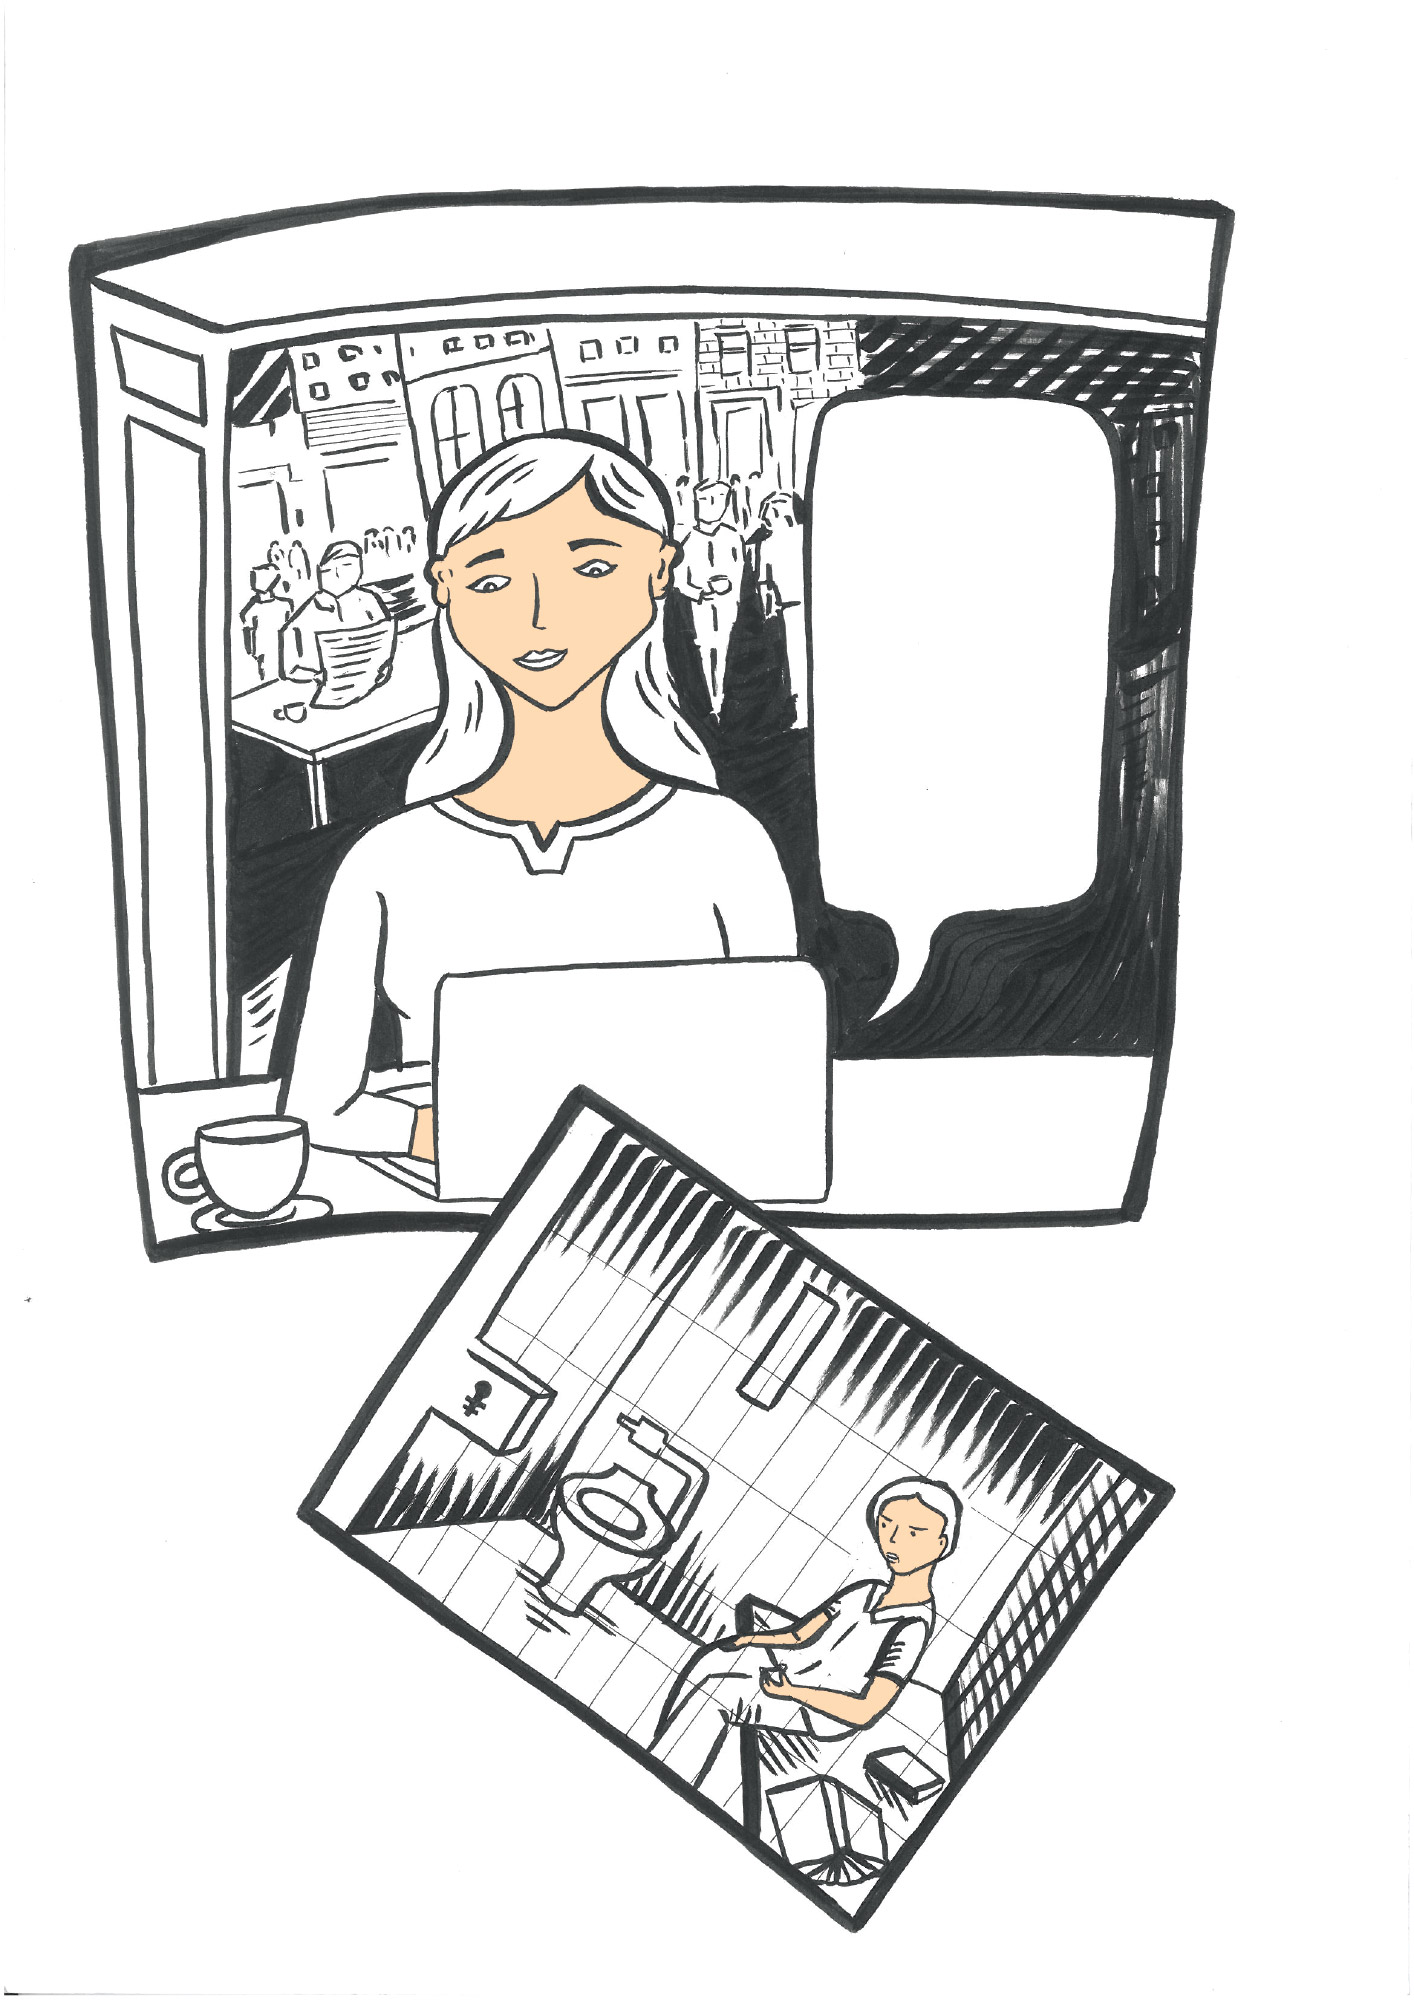
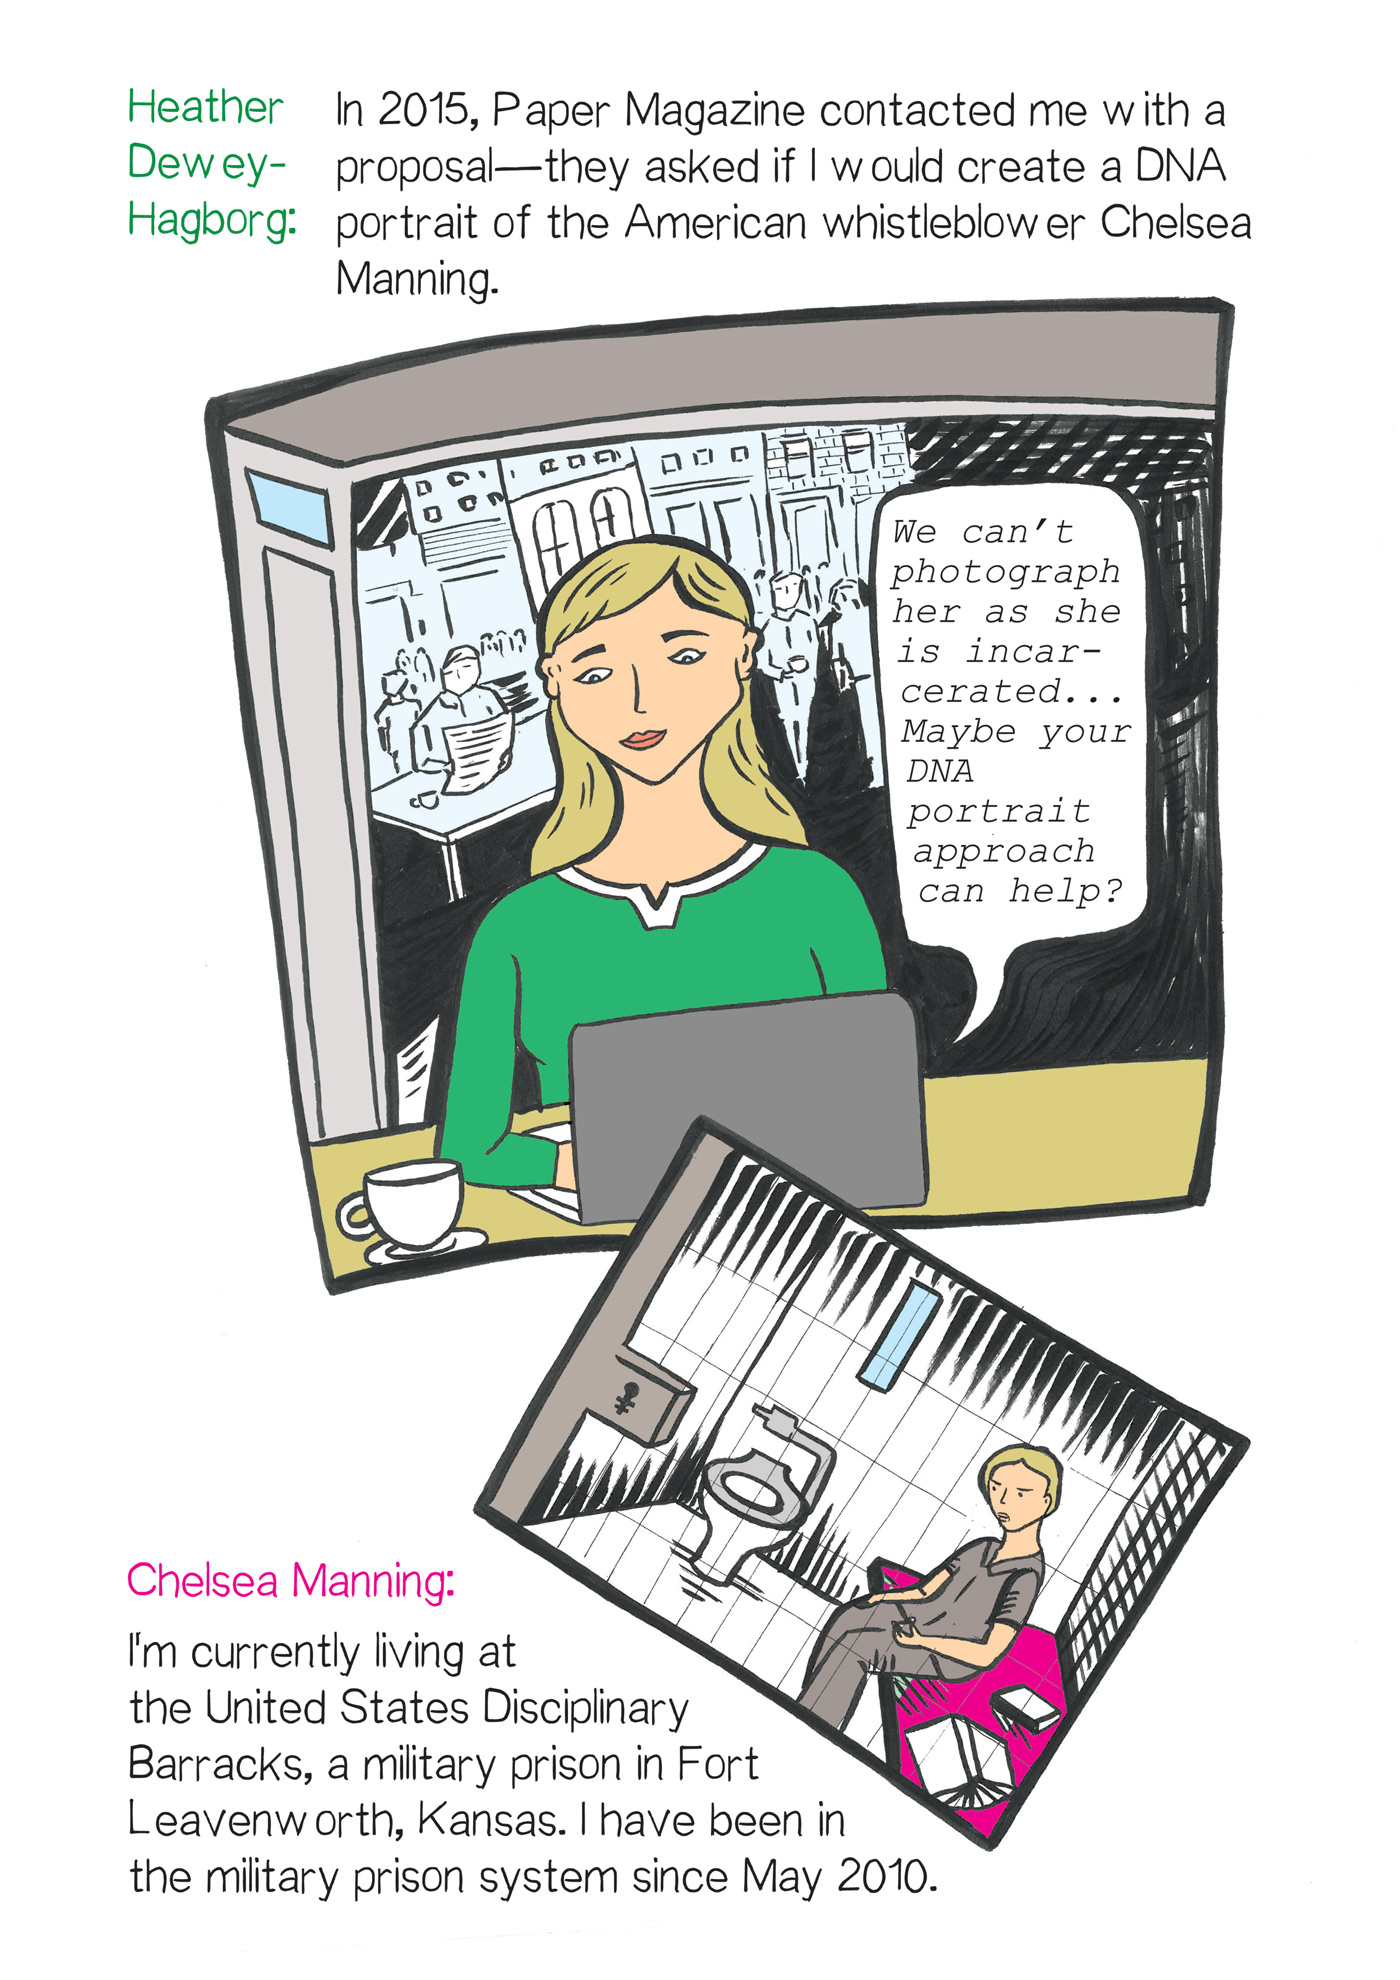
Adds rendered story pages

diff --git a/index.html b/index.html
@@ -29,15 +29,17 @@ layout: default
   </header>
 
   <p class="story">
-    <img src="/assets/images/story/1.jpg" alt="Page 1" />
-    <!--<img src="/assets/images/test-image1.jpg" alt="Suppressed Images page 1" />
-    <img src="/assets/images/test-image2.jpg" alt="Suppressed Images page 2" />
-    <img src="/assets/images/test-image1.jpg" alt="Suppressed Images page 3" />
-    <img src="/assets/images/test-image2.jpg" alt="Suppressed Images page 4" />
-    <img src="/assets/images/test-image1.jpg" alt="Suppressed Images page 5" />
-    <img src="/assets/images/test-image2.jpg" alt="Suppressed Images page 6" />
-    <img src="/assets/images/test-image1.jpg" alt="Suppressed Images page 7" />
-    <img src="/assets/images/test-image2.jpg" alt="Suppressed Images page 8" />-->
+    <img src="/assets/images/story/1.jpg" alt="Suppressed Images page 1" />
+    <img src="/assets/images/story/2.jpg" alt="Suppressed Images page 2" />
+    <img src="/assets/images/story/3.jpg" alt="Suppressed Images page 3" />
+    <img src="/assets/images/story/4.jpg" alt="Suppressed Images page 4" />
+    <img src="/assets/images/story/5.jpg" alt="Suppressed Images page 5" />
+    <img src="/assets/images/story/6.jpg" alt="Suppressed Images page 6" />
+    <img src="/assets/images/story/7.jpg" alt="Suppressed Images page 7" />
+    <img src="/assets/images/story/8.jpg" alt="Suppressed Images page 8" />
+    <img src="/assets/images/story/9.jpg" alt="Suppressed Images page 9" />
+    <img src="/assets/images/story/10.jpg" alt="Suppressed Images page 10" />
+    <img src="/assets/images/story/11.jpg" alt="Suppressed Images page 11" />
   </p>
 
 </main>
